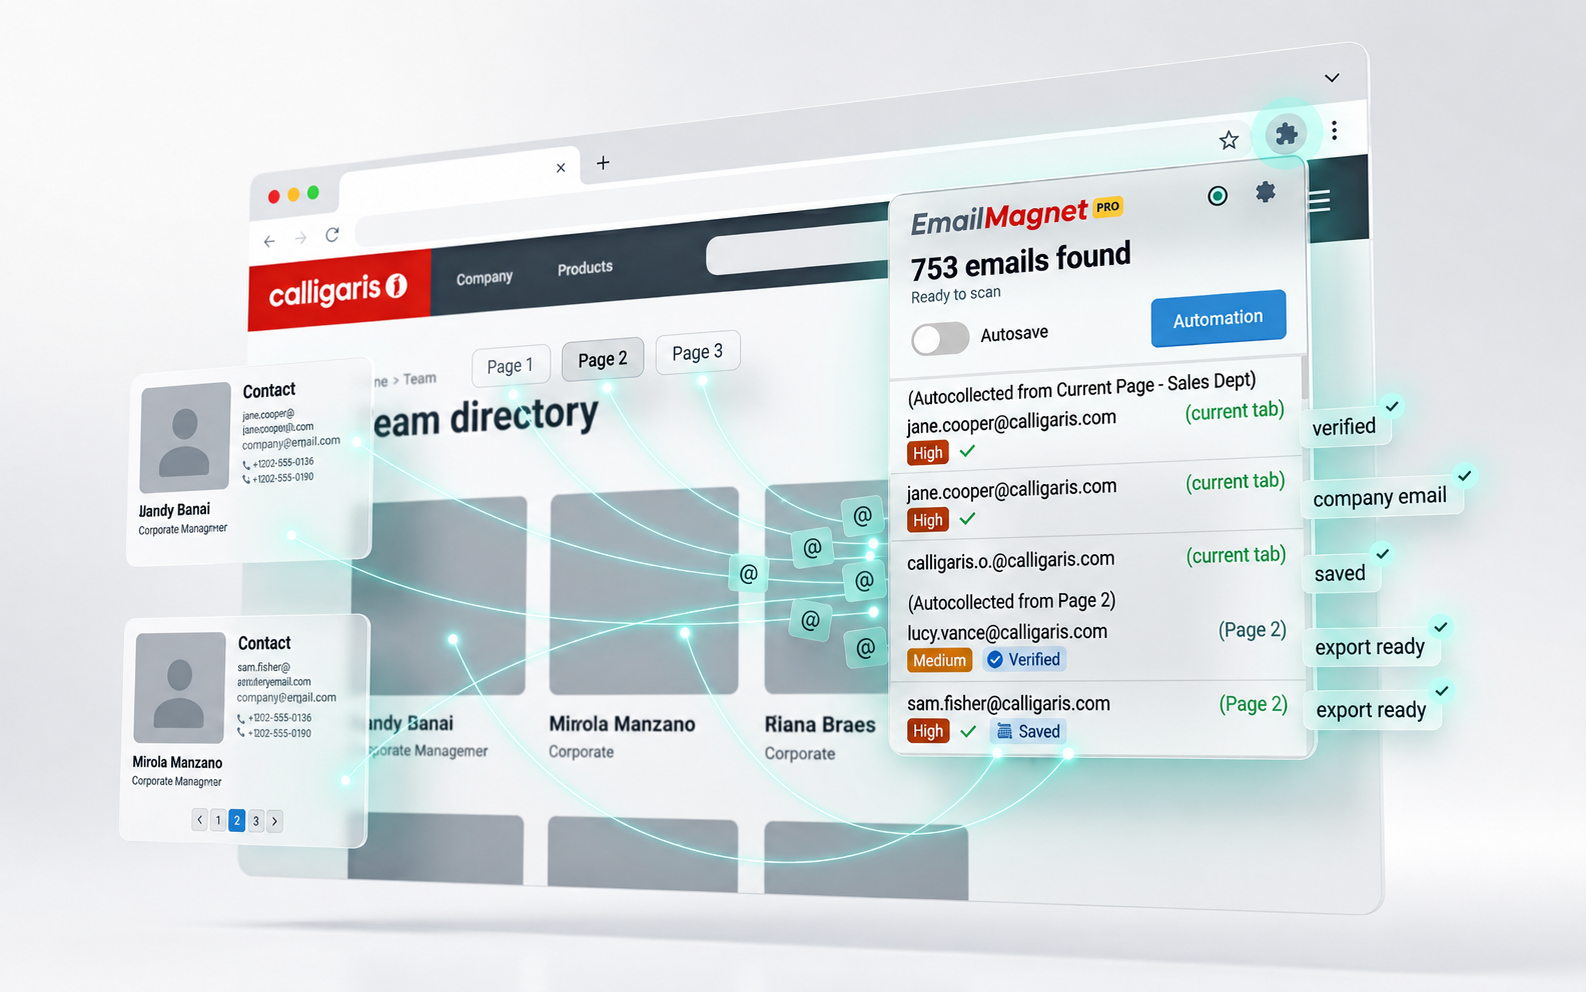
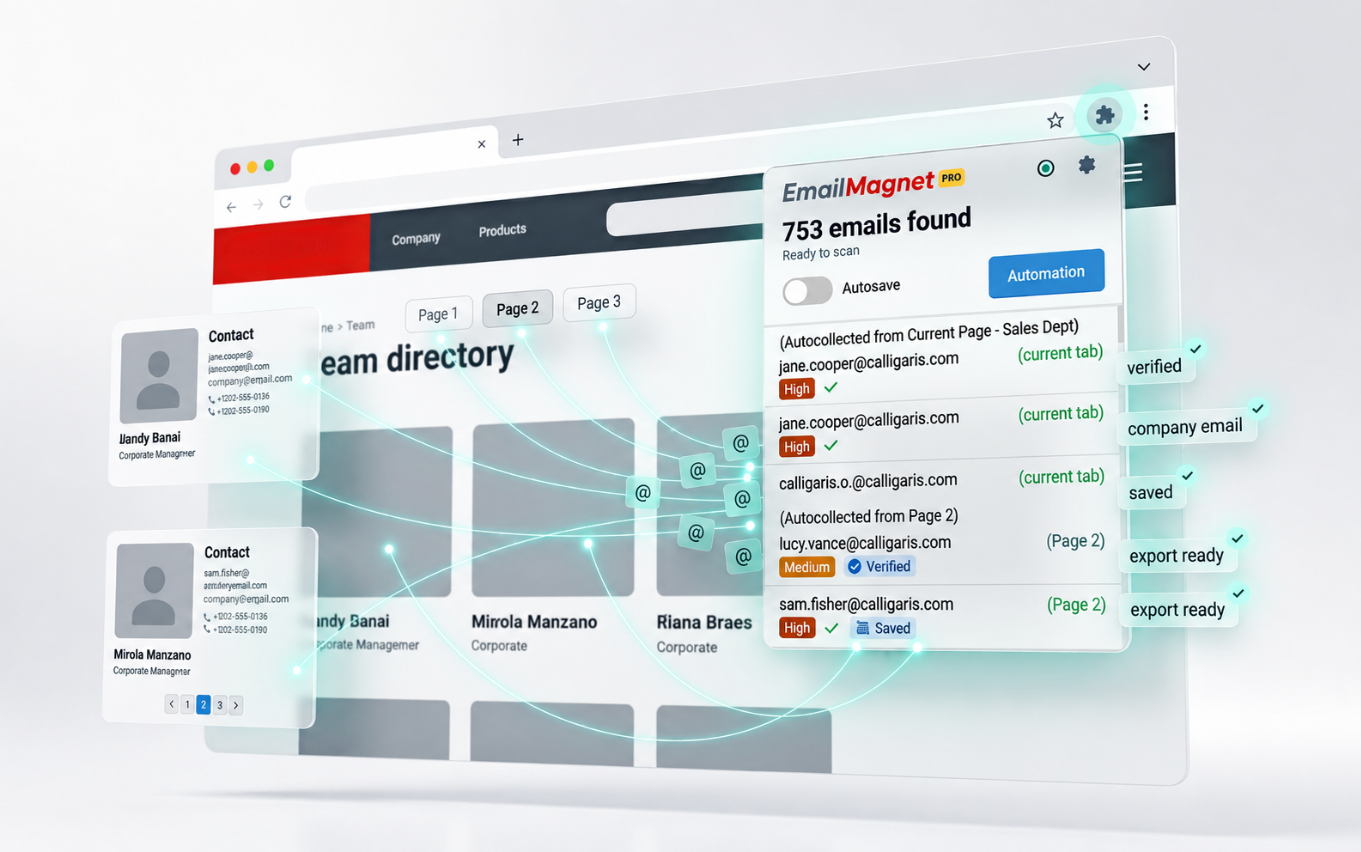
Add AI overview alias and refresh EmailMagnet hero

diff --git a/src/app/emailmagnet/page.tsx b/src/app/emailmagnet/page.tsx
@@ -93,8 +93,8 @@ export default function EmailMagnetPage() {
             <Image
               src="/brand/emailmagnet-hero-new.png"
               alt="EmailMagnet Chrome extension interface"
-              width={1586}
-              height={992}
+              width={1361}
+              height={852}
               className="h-auto w-full"
               priority
             />

diff --git a/src/app/ai/page.tsx b/src/app/ai/page.tsx
@@ -1,0 +1,5 @@
+import { permanentRedirect } from "next/navigation";
+
+export default function AiAliasPage() {
+  permanentRedirect("/overview");
+}
